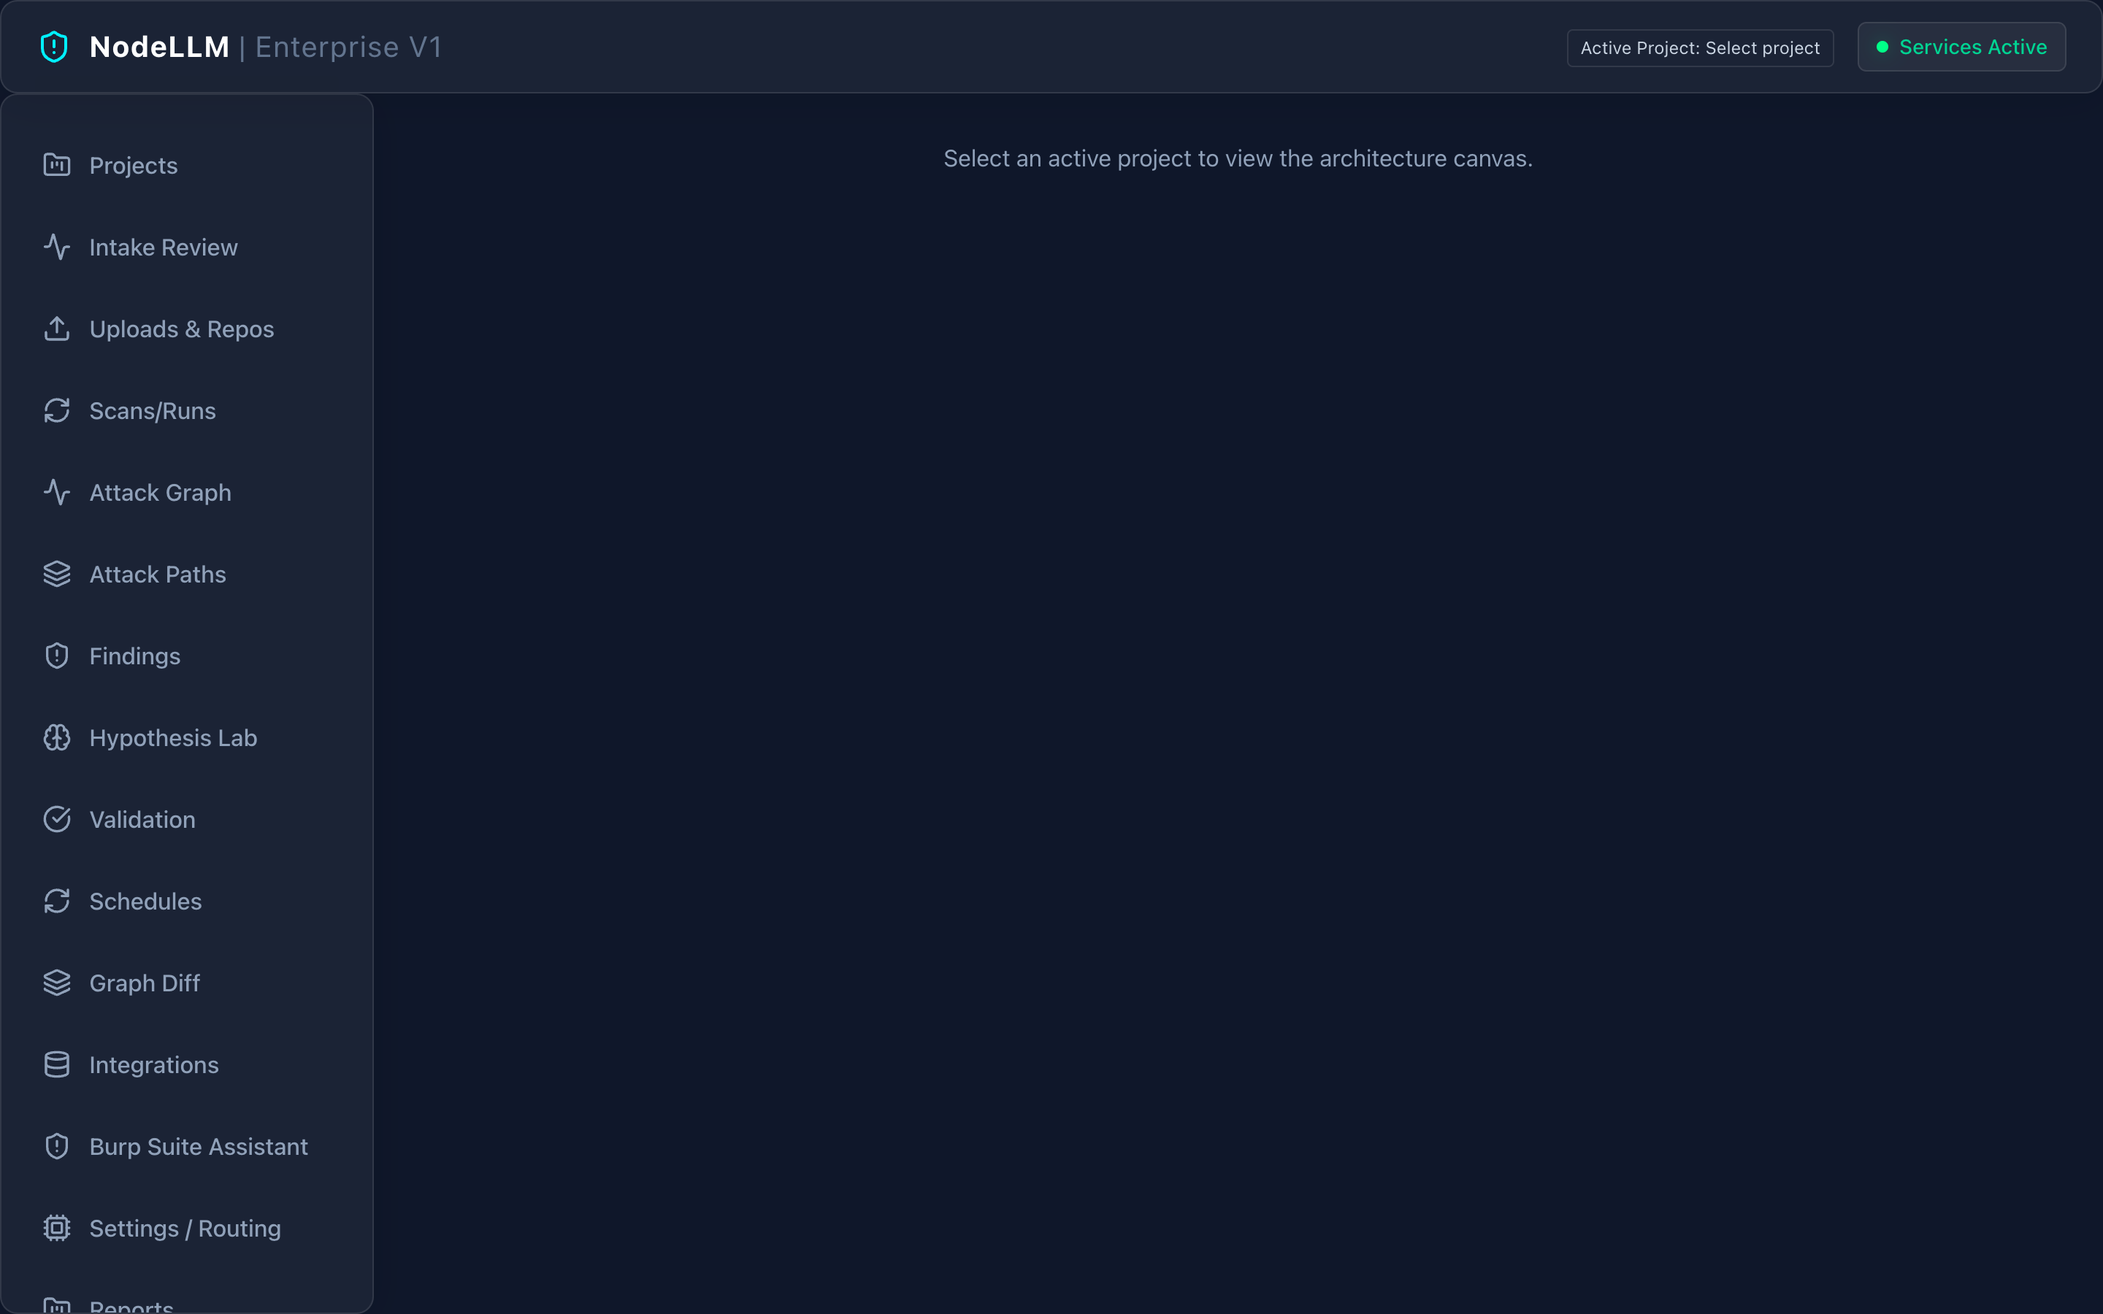
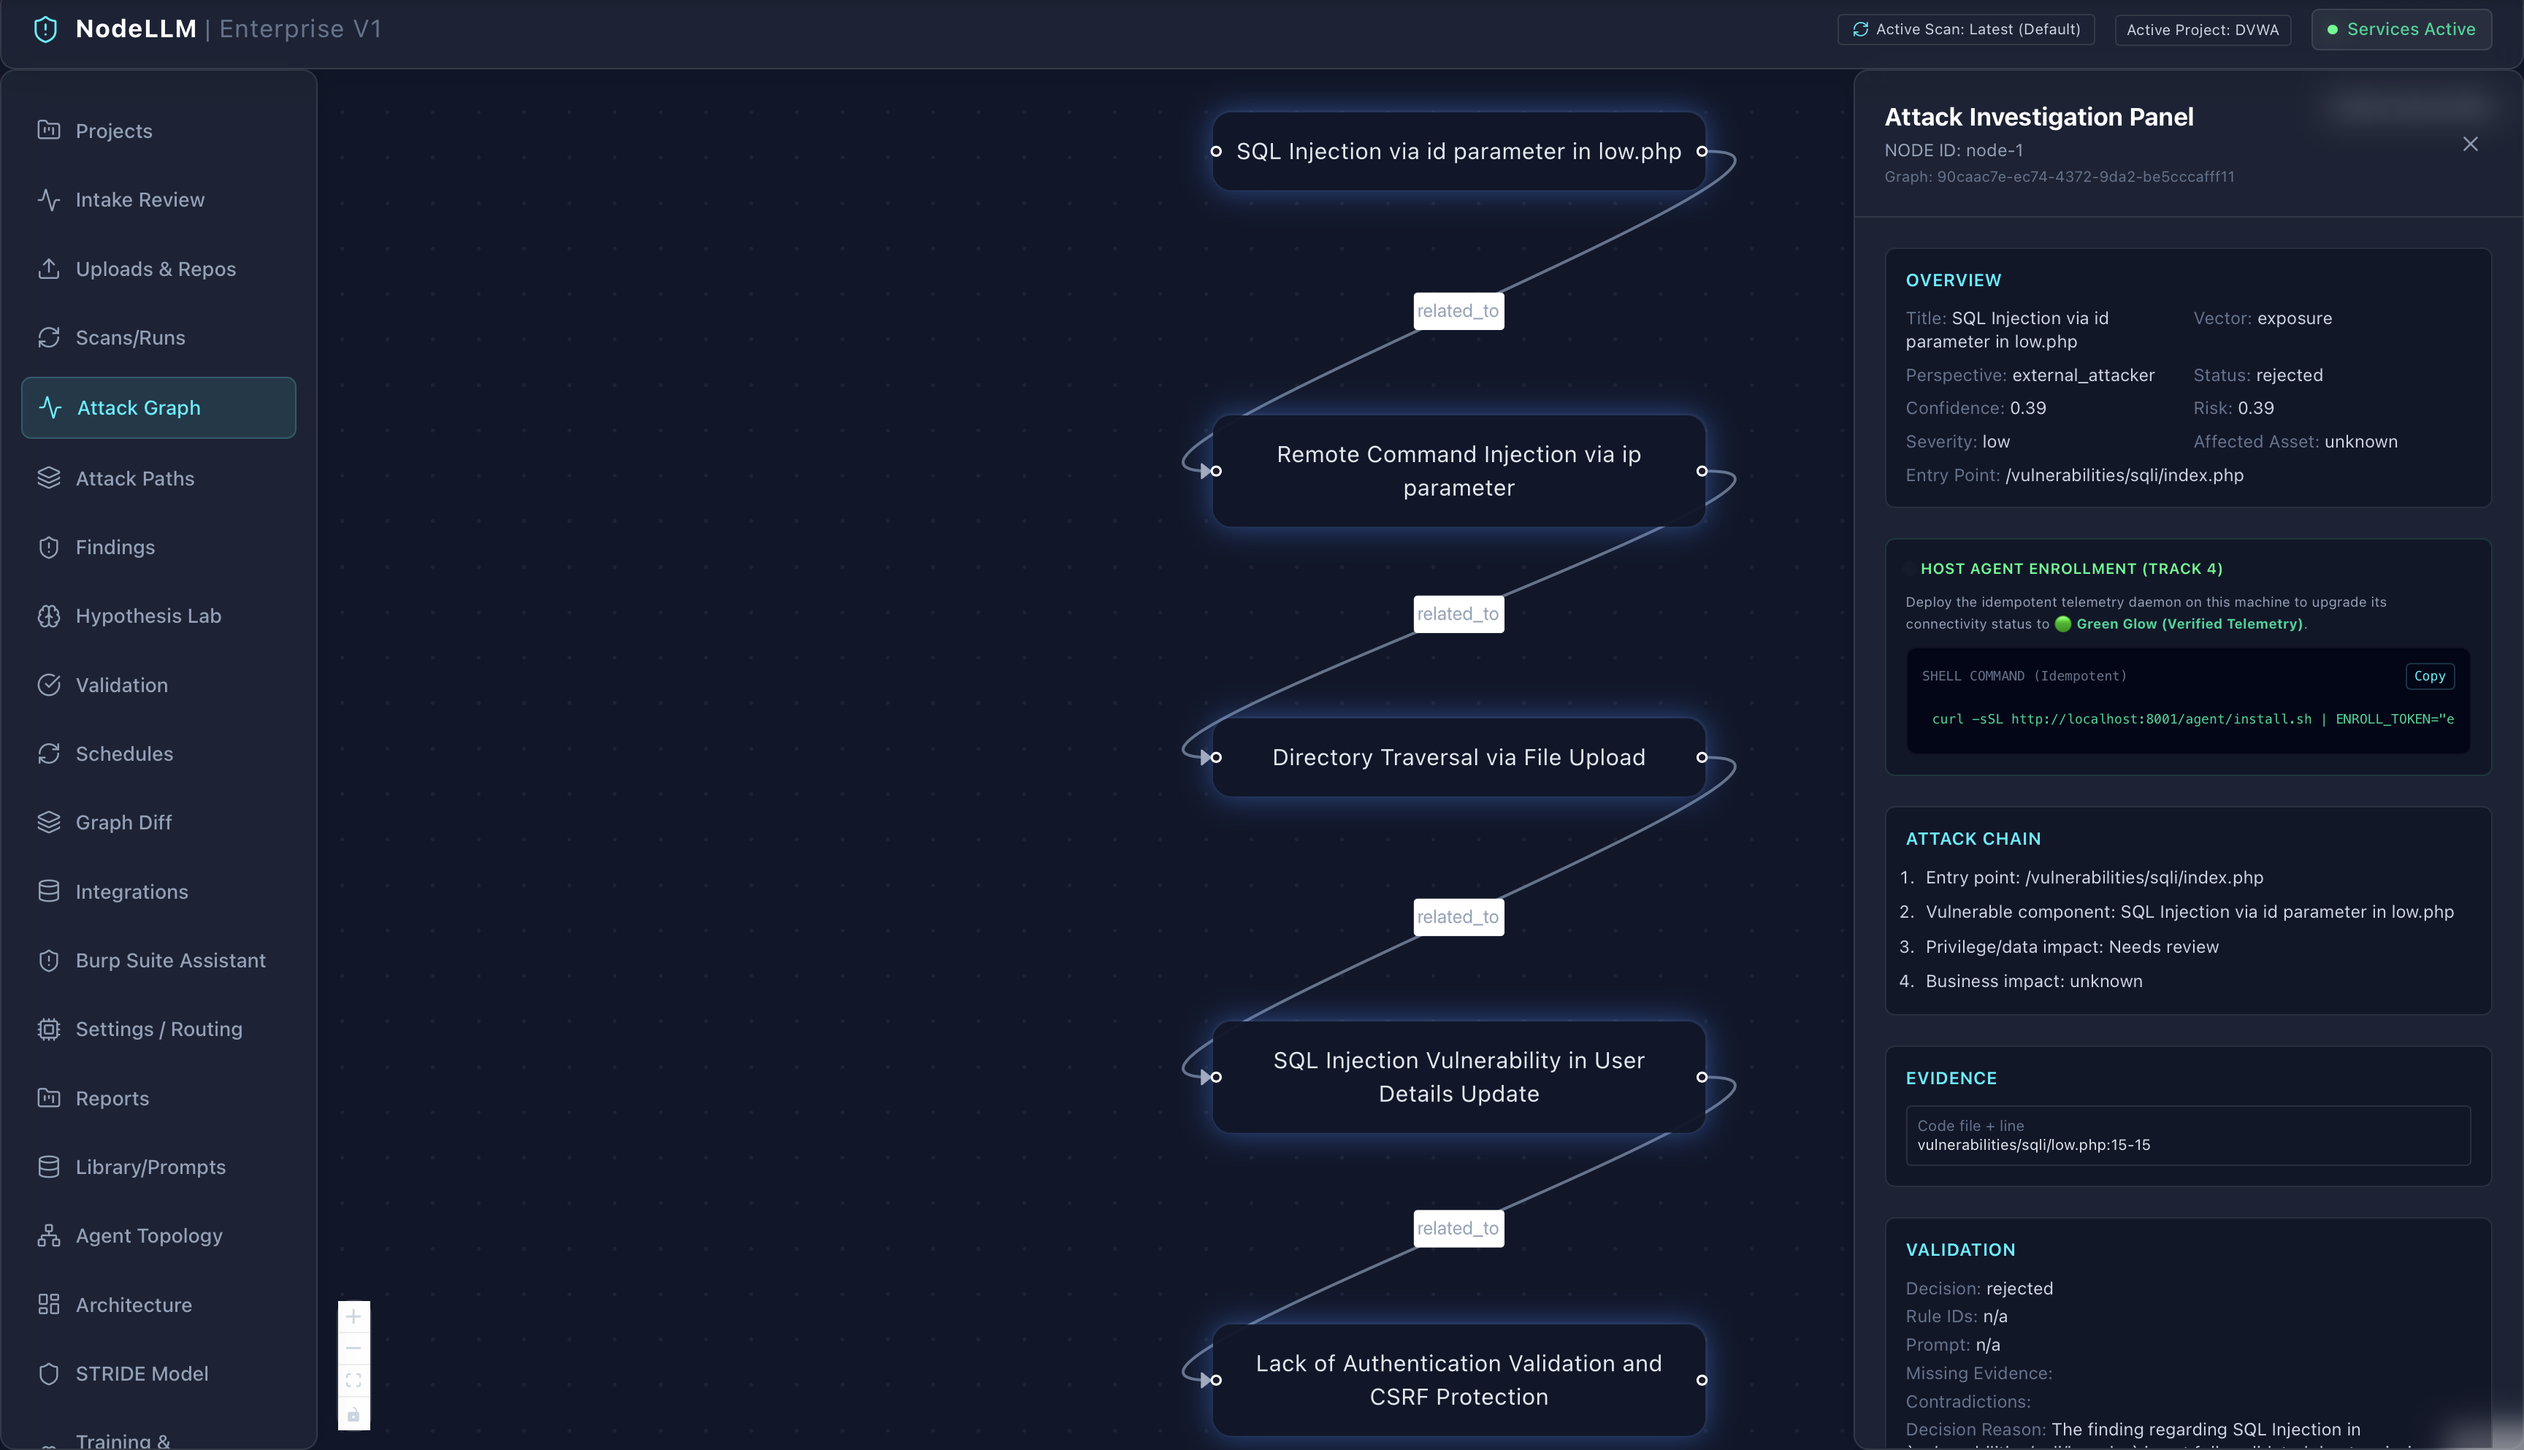
seo

diff --git a/src/App.jsx b/src/App.jsx
@@ -98,92 +98,27 @@ function App() {
         
         <div className="tour-row">
           <div className="tour-image-wrapper">
-            <img src="/images/projects.png" alt="Projects Dashboard" className="tour-image" />
+            <img src="/images/projects.png" alt="Forensic Hub and Exportable Workspace" className="tour-image" />
           </div>
           <div className="tour-content">
-            <span className="tour-badge">Workspace</span>
-            <h3>Forensic Projects Hub</h3>
-            <p>Every penetration test requires meticulous bookkeeping. Our Projects Hub natively supports the <code>.graphnode</code> standard, ensuring that every 0-day, every tool execution, and every hypothesis is cryptographically linked to your local workspace.</p>
+            <span className="tour-badge">Workspace & Portability</span>
+            <h3>Forensic Hub & Context Export</h3>
+            <p>Every penetration test requires meticulous bookkeeping. The Projects Hub natively supports the <code>.nodellm</code> standard. Securely export your entire workspace context to seamlessly transfer 0-day research to colleagues without losing state.</p>
           </div>
         </div>
 
         <div className="tour-row">
           <div className="tour-image-wrapper">
-            <img src="/images/architecture.png" alt="Architecture Canvas" className="tour-image" />
+            <img src="/images/architecture.png" alt="Interactive Attack Graph" className="tour-image" />
           </div>
           <div className="tour-content">
             <span className="tour-badge">Human-in-the-Loop</span>
-            <h3>Interactive Architecture Canvas</h3>
-            <p>You don't let black-box AI guess the network topology. The Architecture Canvas allows you to drag, drop, and define exactly how services interact, instantly forcing the local LLM to re-evaluate its attack paths based on your absolute truth.</p>
-          </div>
-        </div>
-
-        <div className="tour-row">
-          <div className="tour-image-wrapper">
-            <img src="/images/stride.png" alt="STRIDE Threat Models" className="tour-image" />
-          </div>
-          <div className="tour-content">
-            <span className="tour-badge">Telemetry</span>
-            <h3>Dynamic STRIDE Threat Modeling</h3>
-            <p>Using our air-gapped agent endpoints, NodeLLM ingests live process, port, and firewall telemetry. It doesn't guess; it builds real-time STRIDE threat models based on cryptographic evidence from the target host.</p>
-          </div>
-        </div>
-
-        <div className="tour-row">
-          <div className="tour-image-wrapper">
-            <img src="/images/findings.png" alt="Vulnerability Findings" className="tour-image" />
-          </div>
-          <div className="tour-content">
-            <span className="tour-badge">Validation</span>
-            <h3>Deterministic Proof Chains</h3>
-            <p>Generic AI hallucinates vulnerabilities. NodeLLM produces Deterministic Proof Chains. Every hypothesis generated by the Analyst agent is strictly validated by the local Fuzzer before being promoted to a verified finding.</p>
-          </div>
-        </div>
-
-        <div className="tour-row">
-          <div className="tour-image-wrapper">
-            <img src="/images/burp.png" alt="Burp Suite Integration" className="tour-image" />
-          </div>
-          <div className="tour-content">
-            <span className="tour-badge">Integration</span>
-            <h3>Bidirectional Proxy Sync</h3>
-            <p>The Burp Suite of the LLM era plugs directly into the actual Burp Suite. Seamlessly sync your repeater tabs, proxy history, and sitemaps directly into the local agentic reasoning engine for deep business logic analysis.</p>
-          </div>
-        </div>
-
-        <div className="tour-row">
-          <div className="tour-image-wrapper">
-            <img src="/images/training.png" alt="Self Training" className="tour-image" />
-          </div>
-          <div className="tour-content">
-            <span className="tour-badge">Self-Training</span>
-            <h3>Local Weights Flywheel</h3>
-            <p>The more you hunt, the smarter your node becomes. Label your successful exploits and architecture mappings to automatically fine-tune local models (Llama-3, DeepSeek) completely offline.</p>
-          </div>
-        </div>
-
-        <div className="tour-row">
-          <div className="tour-image-wrapper">
-            <img src="/images/context_transfer.png" alt="Context Transfer" className="tour-image" />
-          </div>
-          <div className="tour-content">
-            <span className="tour-badge">Portability</span>
-            <h3>Context Memory Transfer</h3>
-            <p>Don't lose your train of thought. Export your entire context memory, graph architecture, and active findings into a single, encrypted <code>.nodellm</code> file to hand off your 0-day research to a colleague instantly.</p>
-          </div>
-        </div>
-
-        <div className="tour-row">
-          <div className="tour-image-wrapper">
-            <img src="/images/reports.png" alt="Compliance Reports" className="tour-image" />
-          </div>
-          <div className="tour-content">
-            <span className="tour-badge">Compliance</span>
-            <h3>Automated Regulatory Export</h3>
-            <p>Turn weeks of manual reporting into a single click. Instantly generate audit-ready DORA, ISO 20007, and EU AI Act compliance reports complete with cryptographic timestamps of your testing methodologies.</p>
+            <h3>Interactive Attack Graph</h3>
+            <p>Don't let black-box AI guess the network topology. The Architecture Canvas allows you to drag, drop, and define exactly how services interact, forcing the interactive assistant to re-evaluate attack paths based on your ground truth.</p>
           </div>
         </div>
       </section>
+
 
       {/* Ecosystem / Flywheel */}
       <section id="flywheel" className="section container">
@@ -260,6 +195,48 @@ function App() {
         </div>
       </section>
       
+      {/* Content Clusters & Pillar Pages */}
+      <section className="section container">
+        <h2 className="section-title">Deep Technical Resources</h2>
+        <p className="section-subtitle">Explore our core methodology and extend the platform.</p>
+        <div className="features-grid">
+          <div className="glass feature-card">
+            <h3>The Sovereign Intelligence Manifesto</h3>
+            <p>Why cloud-based AI is an unacceptable risk for 0-day research, and how the Human-in-the-Loop paradigm restores control.</p>
+            <a href="#" className="text-gradient" style={{ fontWeight: 'bold', marginTop: '10px', display: 'inline-block' }}>Read Manifesto &rarr;</a>
+          </div>
+          <div className="glass feature-card">
+            <h3>AST-Slicing for Logic Flaws</h3>
+            <p>A deep dive into how NodeLLM uses AST-Slicing and deterministic proofs to hunt for deep business logic flaws in massive 5GB codebases.</p>
+            <a href="#" className="text-gradient" style={{ fontWeight: 'bold', marginTop: '10px', display: 'inline-block' }}>Read Technical Deep-Dive &rarr;</a>
+          </div>
+          <div className="glass feature-card">
+            <h3>The Extension Ecosystem SDK</h3>
+            <p>Documenting our Python SDK. Learn how to write your own <code>jwt_auditor.py</code> and hook into the local agentic reasoning engine.</p>
+            <a href="#" className="text-gradient" style={{ fontWeight: 'bold', marginTop: '10px', display: 'inline-block' }}>View Documentation &rarr;</a>
+          </div>
+        </div>
+      </section>
+
+      {/* AEO FAQ Section */}
+      <section className="section container">
+        <h2 className="section-title">Frequently Asked Questions</h2>
+        <div className="glass" style={{ padding: '40px' }}>
+          <div style={{ marginBottom: '24px' }}>
+            <h3 style={{ fontSize: '1.2rem', marginBottom: '8px' }}>Q: Can NodeLLM run completely air-gapped?</h3>
+            <p style={{ color: 'var(--text-muted)' }}>A: Yes, NodeLLM is a local-first Tauri application that supports fully air-gapped LLM execution via local GPU providers like Ollama or LM Studio.</p>
+          </div>
+          <div style={{ marginBottom: '24px' }}>
+            <h3 style={{ fontSize: '1.2rem', marginBottom: '8px' }}>Q: Is NodeLLM an alternative to Aikido or Xbow?</h3>
+            <p style={{ color: 'var(--text-muted)' }}>A: NodeLLM focuses heavily on offensive security and 0-day research, providing a human-in-the-loop workstation rather than just an automated cloud scanner like Aikido.</p>
+          </div>
+          <div>
+            <h3 style={{ fontSize: '1.2rem', marginBottom: '8px' }}>Q: Can I use NodeLLM for DORA and EU AI Act reporting?</h3>
+            <p style={{ color: 'var(--text-muted)' }}>A: Yes. NodeLLM features automated, one-click compliance reporting tools that generate cryptographically signed audit logs of your testing methodology.</p>
+          </div>
+        </div>
+      </section>
+      
       {/* Bottom CTA */}
       <section className="section container" style={{ textAlign: 'center' }}>
         <div className="glass" style={{ padding: '60px', borderColor: 'var(--accent-cyan)' }}>
@@ -277,6 +254,7 @@ function App() {
             NodeLLM
           </div>
           <div className="footer-links">
+            <a href="mailto:info@nodellm.io" className="text-gradient">Contact Team</a>
             <a href="#">Documentation</a>
             <a href="#">Community Lab</a>
             <a href="#">Privacy Policy</a>

diff --git a/index.html b/index.html
@@ -4,7 +4,33 @@
     <meta charset="UTF-8" />
     <link rel="icon" type="image/svg+xml" href="/vite.svg" />
     <meta name="viewport" content="width=device-width, initial-scale=1.0" />
-    <title>NodeLLM - Sovereign Research Workstation</title>
+    <title>NodeLLM | Local Agentic Security Workstation & 0-Day Research Tool</title>
+    <meta name="description" content="NodeLLM is a sovereign, air-gapped desktop application for offensive security. An agentic reasoning workstation for automated business logic flaw detection." />
+    
+    <!-- OpenGraph / Social Proof -->
+    <meta property="og:type" content="website" />
+    <meta property="og:title" content="NodeLLM | The Sovereign Intelligence Workstation" />
+    <meta property="og:description" content="Take back control of your 0-day research. A downloadable desktop app providing local LLM execution for offensive security and automated reporting." />
+    <meta property="og:url" content="https://nodellm.io/" />
+    <meta property="og:image" content="https://nodellm.io/images/projects.png" />
+    <meta name="twitter:card" content="summary_large_image" />
+
+    <!-- AEO: Software Application Schema -->
+    <script type="application/ld+json">
+    {
+      "@context": "https://schema.org",
+      "@type": "SoftwareApplication",
+      "name": "NodeLLM",
+      "applicationCategory": "SecuritySoftware",
+      "operatingSystem": "macOS, Windows, Linux",
+      "offers": {
+        "@type": "Offer",
+        "price": "0",
+        "priceCurrency": "USD"
+      },
+      "description": "A sovereign, air-gapped desktop application for offensive security. A local agentic reasoning engine for 0-day research and automated business logic flaw detection."
+    }
+    </script>
     <!-- Google Fonts: Inter -->
     <link rel="preconnect" href="https://fonts.googleapis.com">
     <link rel="preconnect" href="https://fonts.gstatic.com" crossorigin>
